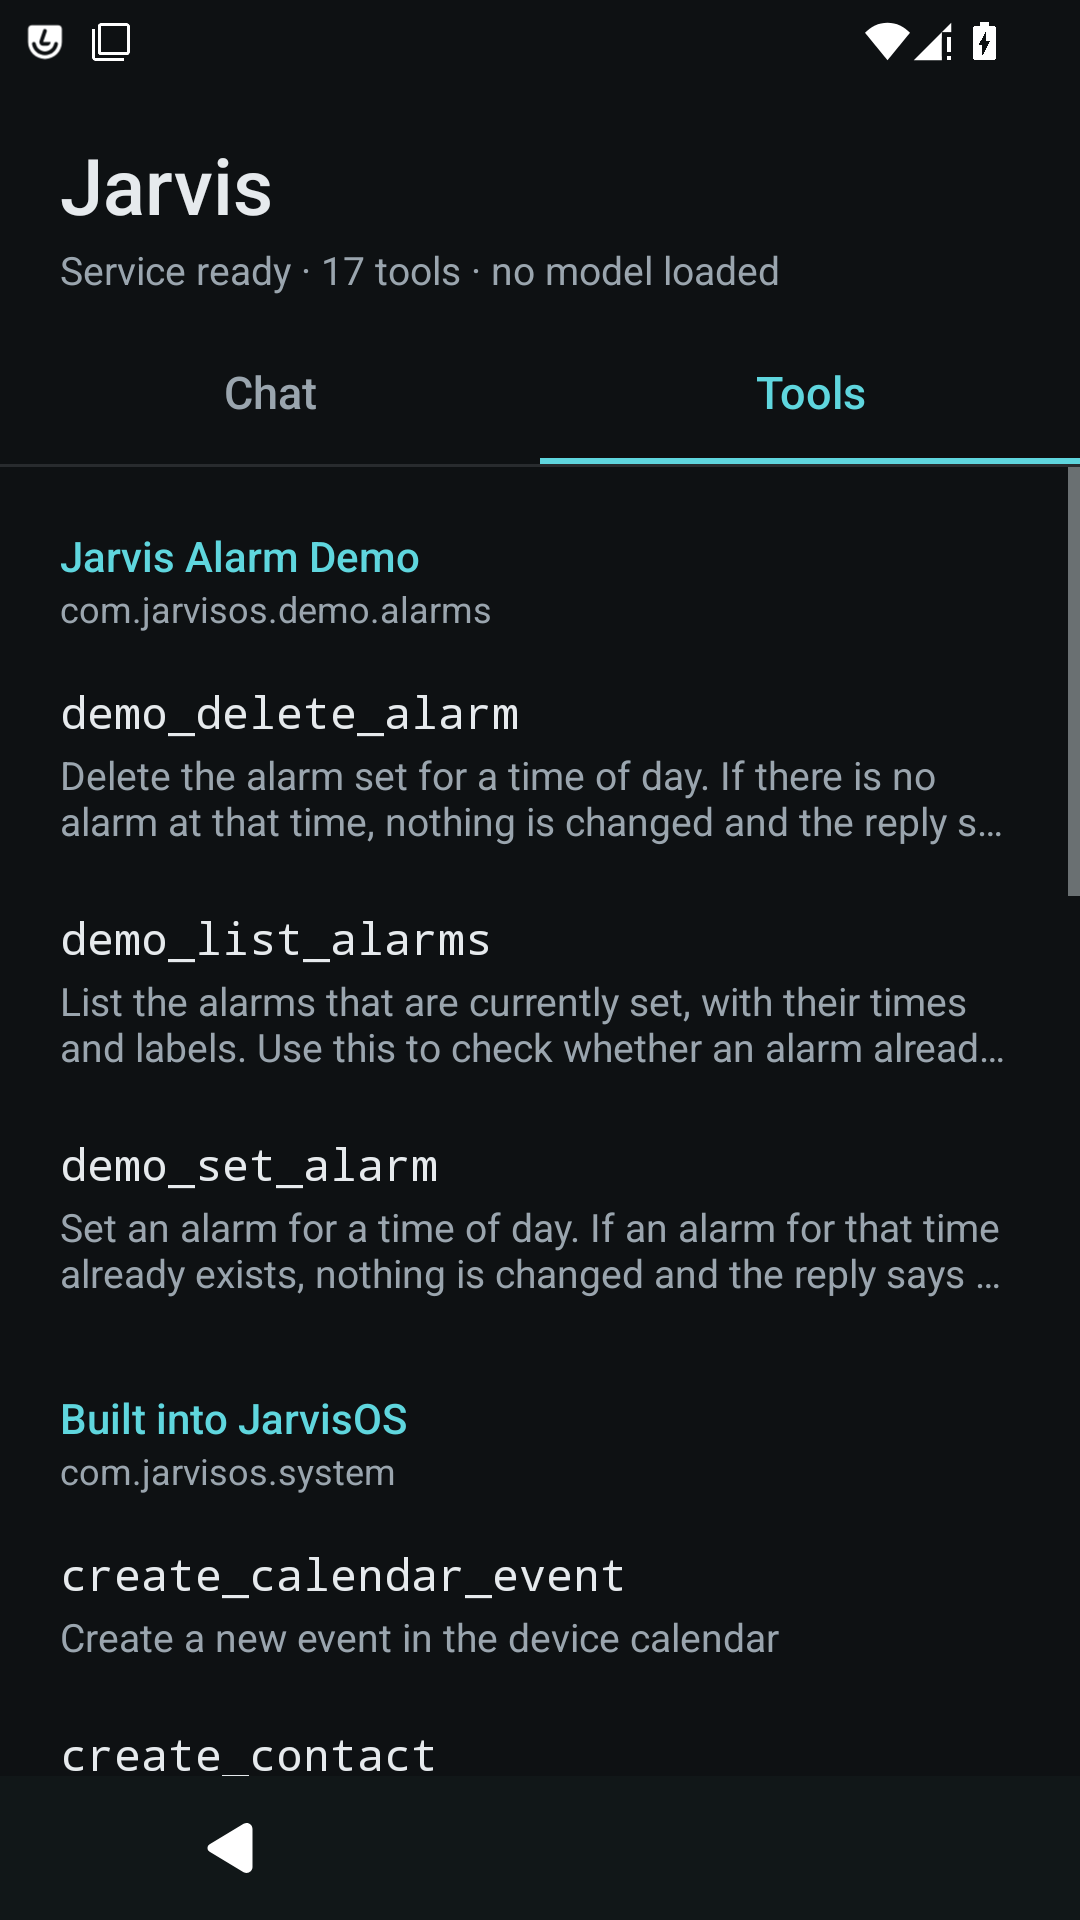
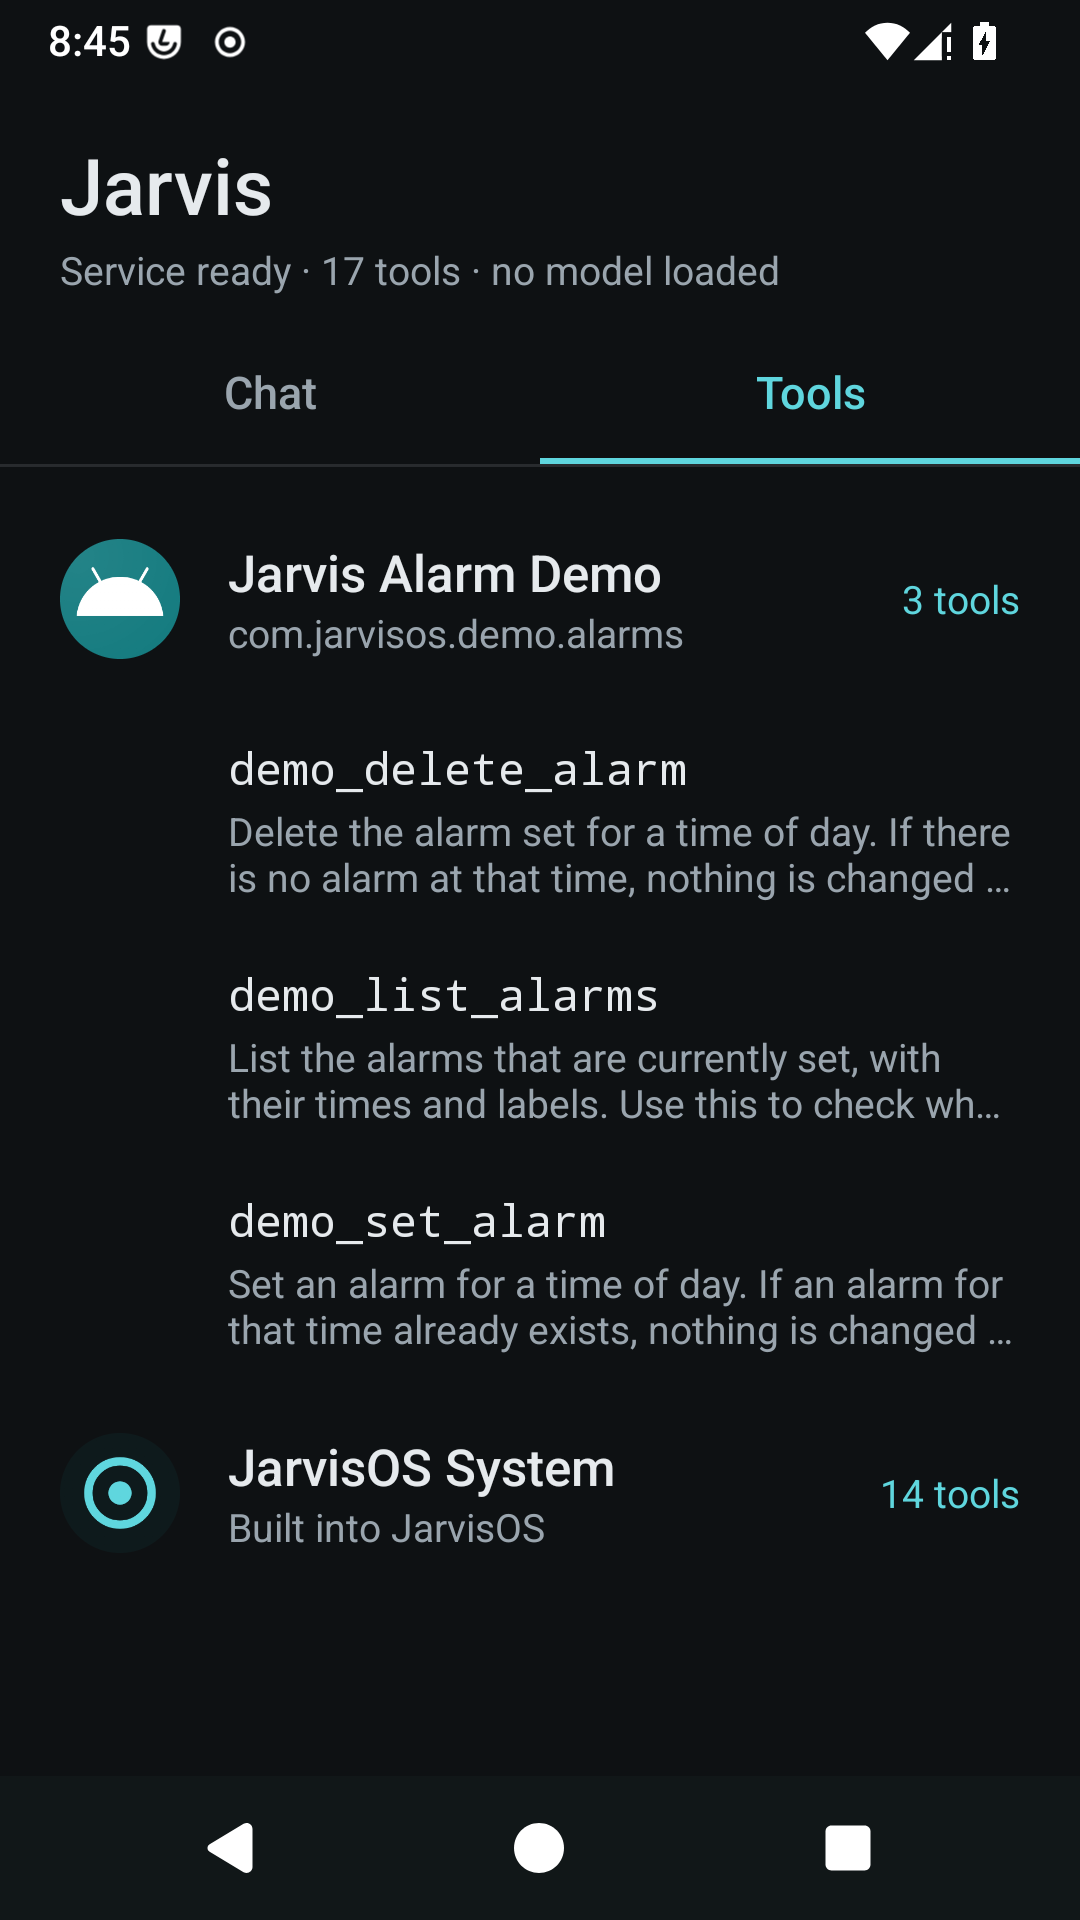
Jarvis app: show tools nested under the app that owns them
The Tools tab is now a list of apps, each opening to its tools, matching how
the registry stores them (AppRecord -> ToolRecords). Each app shows its icon
and a tool count.

diff --git a/apps/Jarvis/src/com/jarvisos/app/ToolsScreen.java b/apps/Jarvis/src/com/jarvisos/app/ToolsScreen.java
@@ -1,18 +1,20 @@
 package com.jarvisos.app;
 
 import android.app.AlertDialog;
+import android.content.pm.PackageManager;
 import android.jarvis.JarvisManager;
 import android.text.InputType;
 import android.util.Log;
 import android.view.View;
 import android.view.ViewGroup;
 import android.view.WindowManager;
-import android.widget.BaseAdapter;
+import android.widget.BaseExpandableListAdapter;
 import android.widget.Button;
 import android.widget.CheckBox;
 import android.widget.EditText;
+import android.widget.ExpandableListView;
+import android.widget.ImageView;
 import android.widget.LinearLayout;
-import android.widget.ListView;
 import android.widget.TextView;
 
 import org.json.JSONException;
@@ -22,39 +24,43 @@ import java.util.ArrayList;
 import java.util.List;
 
 /**
- * The Tools tab: every tool in the registry under the app that owns it. Tapping
- * one opens a form built from the tool's declared parameters; Run calls the
- * tool through the service, with no model involved, and shows its reply.
+ * The Tools tab: the apps that own tools, each opening to show its tools, the
+ * way the registry stores them (one AppRecord, many ToolRecords). Tapping a
+ * tool opens a form built from its declared parameters; Run calls the tool
+ * through the service, with no model involved, and shows its reply.
  */
 class ToolsScreen {
 
     private static final String TAG = "JarvisApp";
 
     private final MainActivity mActivity;
-    /** Tools, with a null before each group to stand for its header row. */
-    private final List<Tool> mRows = new ArrayList<>();
+    /** One entry per owning app, each holding that app's tools. */
+    private final List<List<Tool>> mApps = new ArrayList<>();
     private final TextView mEmpty;
 
     ToolsScreen(MainActivity activity) {
         mActivity = activity;
         mEmpty = activity.findViewById(R.id.tools_empty);
-        ListView list = activity.findViewById(R.id.tools_list);
+        ExpandableListView list = activity.findViewById(R.id.tools_list);
         list.setAdapter(mAdapter);
-        list.setOnItemClickListener((parent, view, position, id) -> open(mRows.get(position)));
+        list.setOnChildClickListener((parent, view, app, tool, id) -> {
+            open(mApps.get(app).get(tool));
+            return true;
+        });
     }
 
     void load() {
         mActivity.call(JarvisManager::listTools, (json, error) -> {
-            mRows.clear();
+            mApps.clear();
             if (error == null) {
                 try {
-                    String group = null;
+                    String owner = null;
                     for (Tool tool : Tool.parseAll(json)) {
-                        if (!tool.packageName.equals(group)) {
-                            group = tool.packageName;
-                            mRows.add(null);
+                        if (!tool.packageName.equals(owner)) {
+                            owner = tool.packageName;
+                            mApps.add(new ArrayList<>());
                         }
-                        mRows.add(tool);
+                        mApps.get(mApps.size() - 1).add(tool);
                     }
                 } catch (JSONException e) {
                     Log.w(TAG, "Unreadable tool list", e);
@@ -62,7 +68,7 @@ class ToolsScreen {
                 }
             }
             mEmpty.setText(error != null ? error : mActivity.getString(R.string.tools_empty));
-            mEmpty.setVisibility(mRows.isEmpty() ? View.VISIBLE : View.GONE);
+            mEmpty.setVisibility(mApps.isEmpty() ? View.VISIBLE : View.GONE);
             mAdapter.notifyDataSetChanged();
         });
     }
@@ -189,33 +195,47 @@ class ToolsScreen {
         return Math.round(value * mActivity.getResources().getDisplayMetrics().density);
     }
 
-    private final BaseAdapter mAdapter = new BaseAdapter() {
-        @Override public int getCount() { return mRows.size(); }
-        @Override public Object getItem(int position) { return mRows.get(position); }
-        @Override public long getItemId(int position) { return position; }
-        @Override public int getViewTypeCount() { return 2; }
-        @Override public int getItemViewType(int position) { return isEnabled(position) ? 1 : 0; }
-        @Override public boolean areAllItemsEnabled() { return false; }
-        @Override public boolean isEnabled(int position) { return mRows.get(position) != null; }
+    private final BaseExpandableListAdapter mAdapter = new BaseExpandableListAdapter() {
+        @Override public int getGroupCount() { return mApps.size(); }
+        @Override public int getChildrenCount(int app) { return mApps.get(app).size(); }
+        @Override public Object getGroup(int app) { return mApps.get(app); }
+        @Override public Object getChild(int app, int tool) { return mApps.get(app).get(tool); }
+        @Override public long getGroupId(int app) { return app; }
+        @Override public long getChildId(int app, int tool) { return tool; }
+        @Override public boolean hasStableIds() { return false; }
+        @Override public boolean isChildSelectable(int app, int tool) { return true; }
 
         @Override
-        public View getView(int position, View view, ViewGroup parent) {
-            Tool tool = mRows.get(position);
+        public View getGroupView(int app, boolean expanded, View view, ViewGroup parent) {
             if (view == null) {
-                view = mActivity.getLayoutInflater().inflate(tool != null
-                        ? R.layout.item_tool : R.layout.item_tool_header, parent, false);
+                view = mActivity.getLayoutInflater().inflate(R.layout.item_tool_app, parent, false);
             }
-            TextView title = view.findViewById(R.id.title);
-            TextView subtitle = view.findViewById(R.id.subtitle);
-            if (tool != null) {
-                title.setText(tool.name);
-                subtitle.setText(tool.description);
-            } else {
-                Tool first = mRows.get(position + 1);
-                title.setText(first.builtIn
-                        ? mActivity.getString(R.string.tools_builtin) : first.appLabel);
-                subtitle.setText(first.packageName);
+            List<Tool> tools = mApps.get(app);
+            Tool first = tools.get(0);
+            ((TextView) view.findViewById(R.id.title)).setText(first.appLabel);
+            ((TextView) view.findViewById(R.id.subtitle)).setText(first.builtIn
+                    ? mActivity.getString(R.string.tools_builtin) : first.packageName);
+            ((TextView) view.findViewById(R.id.count)).setText(mActivity.getResources()
+                    .getQuantityString(R.plurals.tools_count, tools.size(), tools.size()));
+            ImageView icon = view.findViewById(R.id.icon);
+            try {
+                icon.setImageDrawable(
+                        mActivity.getPackageManager().getApplicationIcon(first.packageName));
+            } catch (PackageManager.NameNotFoundException e) {
+                // Built-in tools belong to no installed package.
+                icon.setImageResource(R.mipmap.ic_launcher);
             }
+            return view;
+        }
+
+        @Override
+        public View getChildView(int app, int tool, boolean last, View view, ViewGroup parent) {
+            if (view == null) {
+                view = mActivity.getLayoutInflater().inflate(R.layout.item_tool, parent, false);
+            }
+            Tool t = mApps.get(app).get(tool);
+            ((TextView) view.findViewById(R.id.title)).setText(t.name);
+            ((TextView) view.findViewById(R.id.subtitle)).setText(t.description);
             return view;
         }
     };

diff --git a/skills/jarvis-presentation/references/how-it-was-built.md b/skills/jarvis-presentation/references/how-it-was-built.md
@@ -133,3 +133,14 @@ reading the logs, and writing the commits and documents. Concretely:
 | 19:23 | Tool form fixed; alarm set from the app |
 | 19:27 | 16 of 16; image rebuilt with the fixes |
 | 19:32 | Rebooted on the new image: 16 of 16 and 22 of 22 with the app built in |
+| 20:40 | Kevin: tools should be nested under their apps, as the registry stores them |
+| 20:46 | Tools tab rebuilt as an app list that opens to each app's tools (app-only build, 90 s) |
+
+Kevin's point was about the architecture: `AppRecord` owns many `ToolRecord`s,
+so the screen should show apps first. Claude's first version listed tools flat
+under headings. Still true after the change: the 14 built-in tools all sit
+under one made-up app, "JarvisOS System", because the curated tool files say
+so; and the permissions in `TOOL_REGISTRY.md` (`ACCESS_RAG_SERVICE` for any
+app with user approval, `REGISTER_JARVIS_TOOL` for signed apps) are not what
+the code enforces (`ACCESS_JARVIS_SERVICE`, platform-signed only; any app may
+register tools). Both are open decisions for Kevin.
